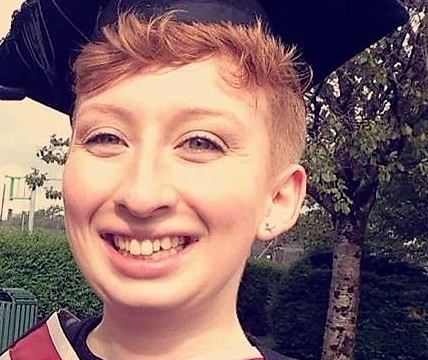
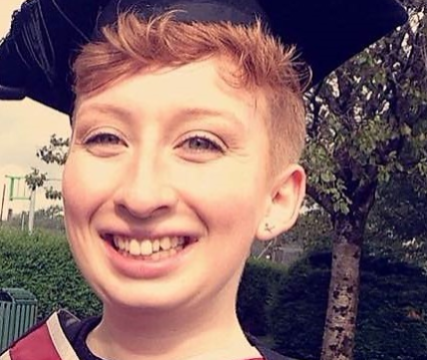
footer info and styles new pic

diff --git a/assets/css/style.css b/assets/css/style.css
@@ -16,11 +16,35 @@
 }
 
 .ul-menu-color-contact-me {
-    background-color:  #00b38f;
+    background-color: #00b38f;
 }
 
 .ul-menu-color-download {
-    background-color:  #00e6b8;
+    background-color: #00e6b8;
+}
+
+/*-------------------------------------------------------------Special Padding*/
+
+h1,
+h2,
+h3,
+h4 {
+    margin: 0;
+}
+
+.uppercase {
+    text-transform: uppercase;
+}
+
+.general-sub {
+    font-family: Exo, sans-serif;
+    font-weight: 400;
+    color: #fafafa;
+
+}
+
+.inline-block {
+    display: inline-block;
 }
 
 /*---------------------------------------------------------------------heading*/
@@ -34,12 +58,15 @@ header {
 }
 
 .logo {
-    background: url("../images/ellie & jo2.jpg");
+    background: url("../images/IMG_8962.JPG");
     background-position: center;
     background-repeat: no-repeat;
     background-size: cover;
     min-height: 360px;
     transition: all .5s ease-in-out;
+    -moz-transition: all .5s ease-in-out;
+    -webkit-transition: all .5s ease-in-out;
+    -o-transition: all .5s ease-in-out;
 }
 
 .name {
@@ -102,4 +129,63 @@ header {
 .hvr-sweep-to-bottom:before {
     background-color: rgb(0, 0, 0, 0.2);
     height: 120px;
+}
+
+/*---------------------------------------------------------------------footer*/
+
+footer {
+    background-color: #455454;
+    color: #fafafa;
+    min-height: 120px;
+    margin: 0;
+
+}
+
+footer p {
+    font-family: exo, sans-serif;
+    font-weight: 100;
+}
+
+footer .cv-pdf {
+    color: #fafafa;
+    text-align: center;
+    font-size: 18px;
+    padding-left: 5px;
+}
+
+footer .cv-pdf i:hover {
+    color: #ff6600;
+    transition: all 0.35s ease-in-out;
+    -moz-transition: all 0.35s ease-in-out;
+    -webkit-transition: all 0.35s ease-in-out;
+    -o-transition: all 0.35s ease-in-out;
+
+}
+
+.social-links {
+    padding-bottom: 15px;
+}
+
+.social-links li a i {
+    width: 32px;
+    height: 32px;
+    padding: 12px 0;
+    border-radius: 50%;
+    font-size: 13px;
+    line-height: 7px;
+    text-align: center;
+    color: #fafafa;
+    background: #b3cccc;
+    transition: all 0.35s ease-in-out;
+    -moz-transition: all 0.35s ease-in-out;
+    -webkit-transition: all 0.35s ease-in-out;
+    -o-transition: all 0.35s ease-in-out;
+}
+
+.social-links li a i:hover {
+    background: #ff6600;
+}
+
+#footer-details {
+    margin: 20px;
 }

diff --git a/index.html b/index.html
@@ -43,7 +43,32 @@
     <section>
 
     </section>
-    <footer>
+    <footer class="container-fluid">
+        <div id="footer-details" class="row">
+            <div class="col-sm-4">
+                <h5 class="uppercase general-sub">About</h5>
+                <p clas="inline-block utility">
+                    Student software developer, learning everything from HTML to Python. Ready to kick-start my Full-Stack career.
+                </p>
+            </div>
+            <div class="col-sm-4">
+                <h5 class="uppercase general-sub">Download</h5>
+                <p class="inline-block">
+                    Need a copy of my CV? Download it here
+                    <a href="#" class="cv-pdf"><i class="fa fa-download aria-hidden=true"></i> </a>
+                </p>
+            </div>
+            <div class="col-sm-4">
+                <h5 class="uppercase general-sub">Social</h5>
+                <ul class="list-inline social-links">
+                    <li><a target="_blank" href="#"><i class="fa fa-facebook"></i></a></li>
+                    <li><a target="_blank" href="#"><i class="fa fa-twitter"></i></a></li>
+                    <li><a target="_blank" href="#"><i class="fa fa-linkedin"></i></a></li>
+                    <li><a target="_blank" href="#"><i class="fa fa-instagram"></i></a></li>
+                    <li><a target="_blank" href="#"><i class="fa fa-youtube"></i></a></li>
+                </ul>
+            </div>
+        </div>
 
     </footer>
 
